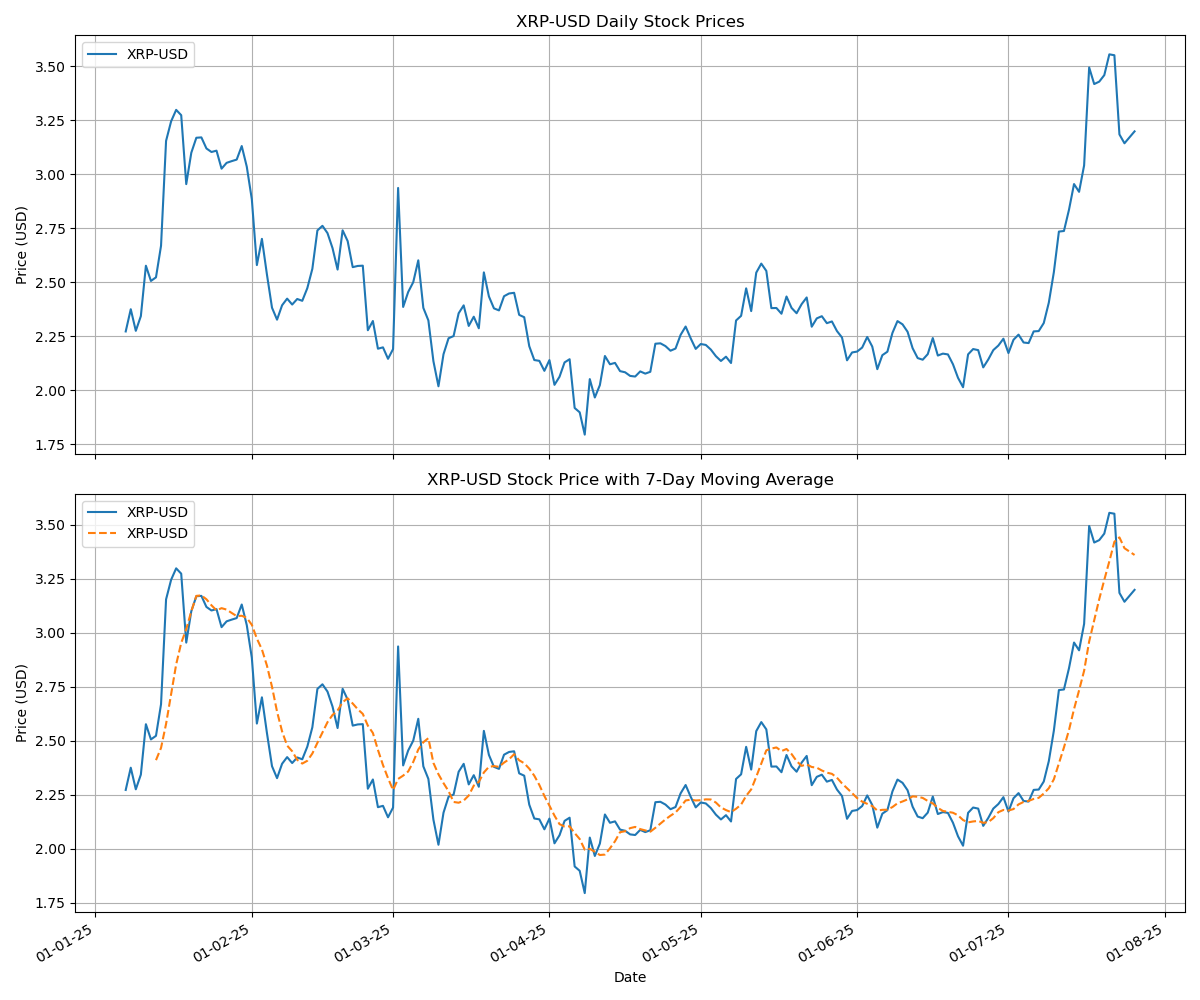
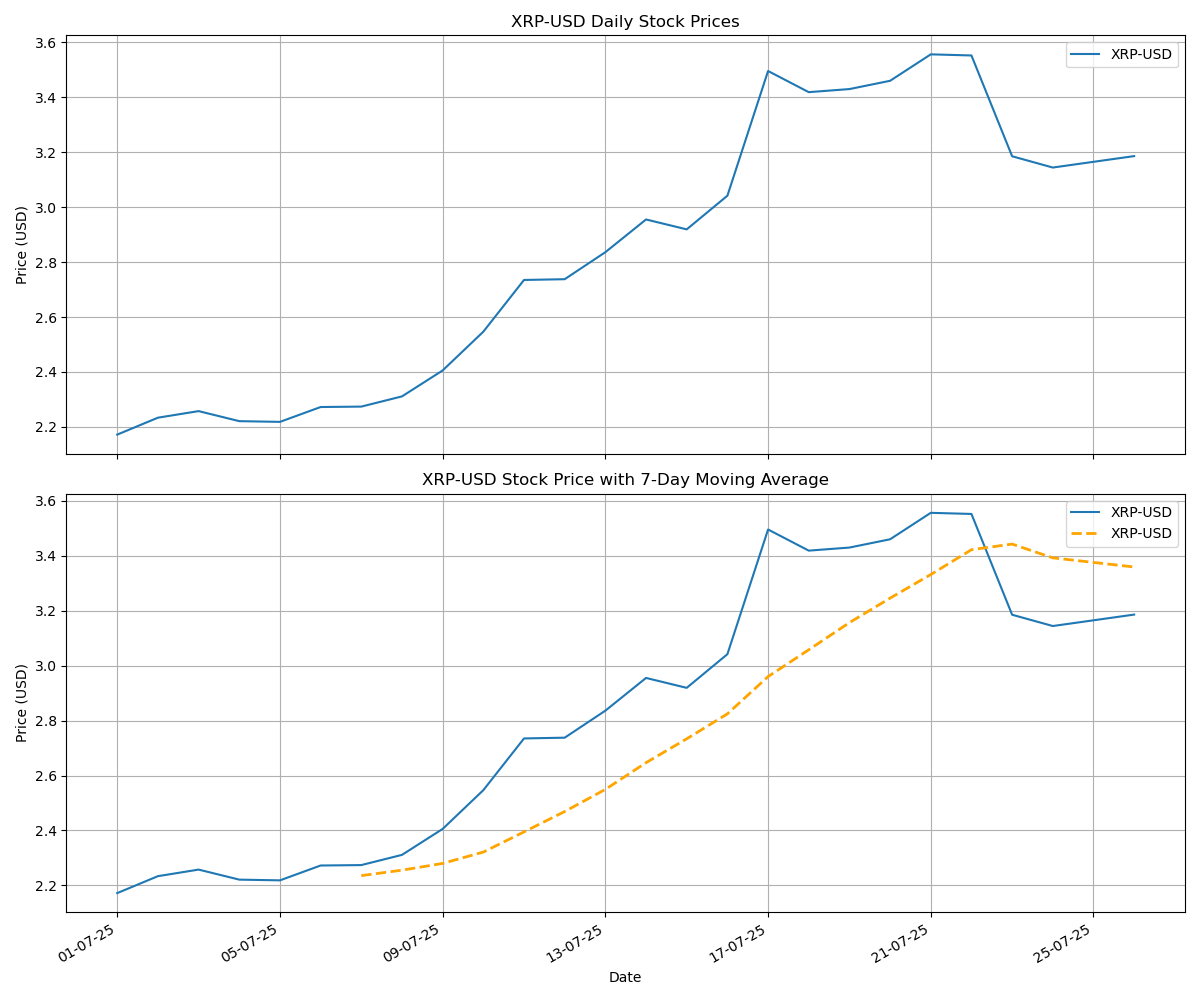
Commit

diff --git a/taskscript.py b/taskscript.py
@@ -31,7 +31,7 @@ def forecast_next(series: pd.Series, window: int) -> float:
 
 def main() -> None:
     symbol = "XRP-USD"  # Tickers
-    start_date = "2025-07-20" # yyyy-dd-mm
+    start_date = "2025-07-01" # yyyy-mm-dd
 
     time_series = fetch_time_series(symbol, start=start_date)
 
@@ -54,7 +54,12 @@ def main() -> None:
     ma_series = moving_average(time_series, window_size)
     plt.figure(figsize=(12, 6))
     time_series.plot(label="Stock Price")
-    ma_series.plot(label=f"{window_size}-Day Moving Average", linestyle="--")
+    ma_series.plot(
+        label=f"{window_size}-Day Moving Average",
+        linestyle="--",
+        color="orange",
+        linewidth=2,
+    )
     ax = plt.gca()
     ax.xaxis.set_major_formatter(mdates.DateFormatter("%d-%m-%y"))
     plt.title(f"{symbol} Stock Price with {window_size}-Day Moving Average")
@@ -84,6 +89,8 @@ def main() -> None:
         ax=ax2,
         label=f"{window_size}-Day Moving Average",
         linestyle="--",
+        color="orange",
+        linewidth=2,
     )
     ax2.xaxis.set_major_formatter(mdates.DateFormatter("%d-%m-%y"))
     ax2.set_title(f"{symbol} Stock Price with {window_size}-Day Moving Average")
